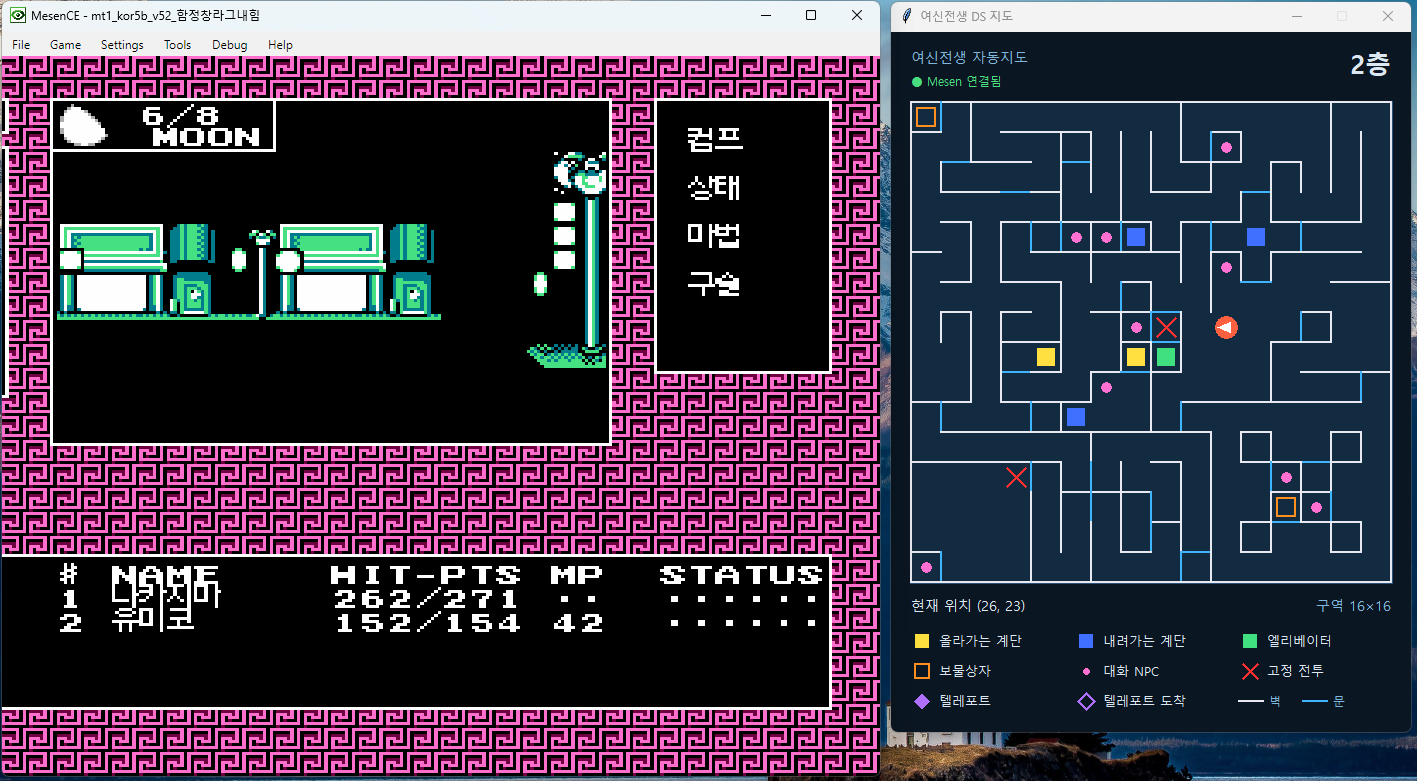
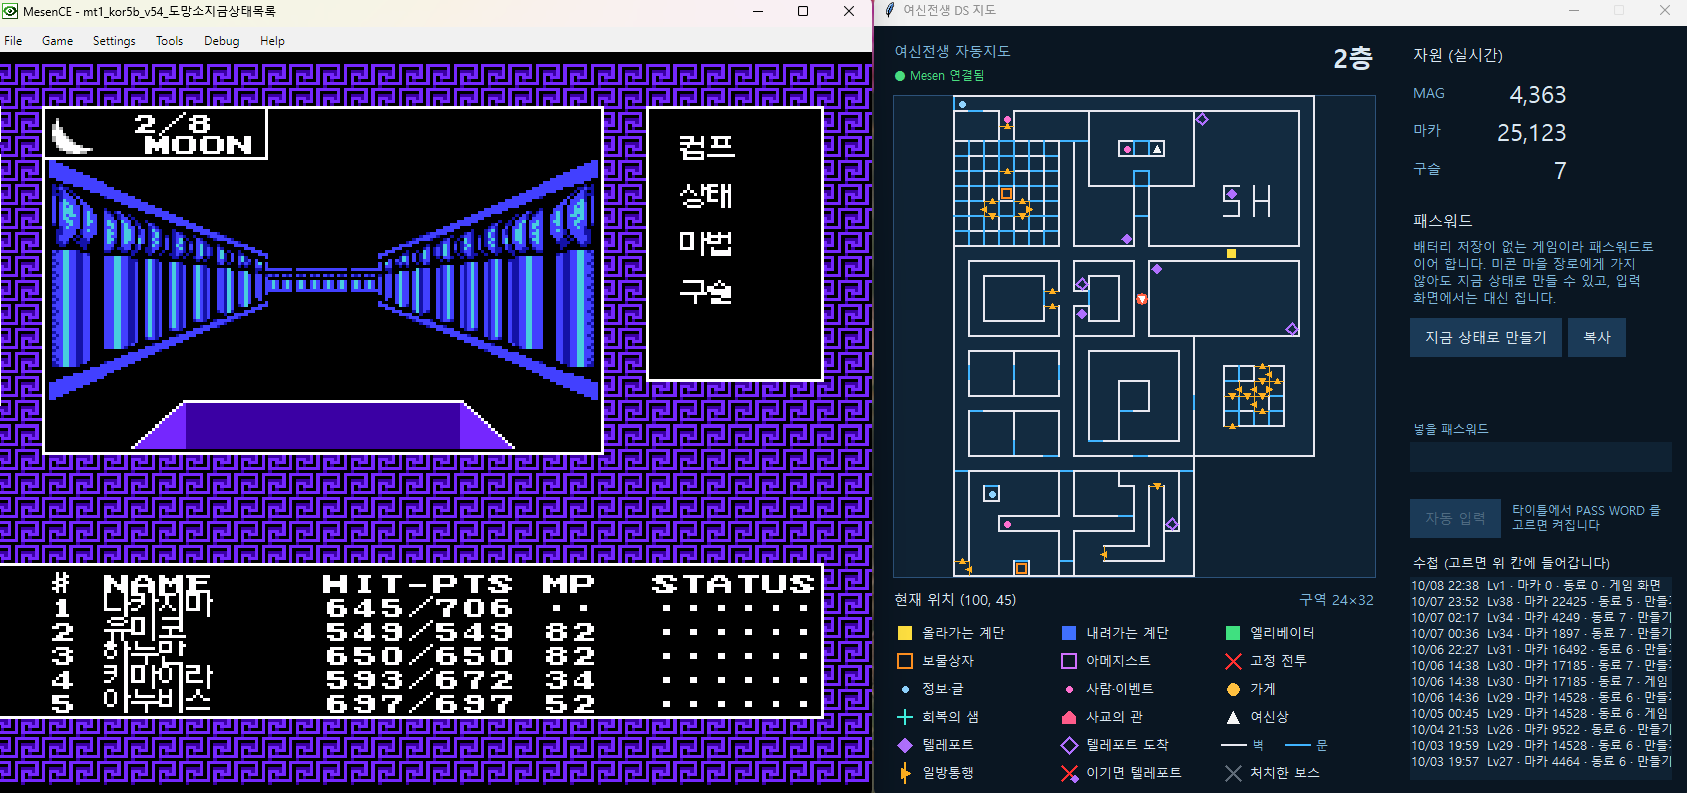
README 자동지도 스크린샷을 v54 DS 창(일방통행·자원·패스워드 패널)으로 교체

diff --git a/README.md b/README.md
@@ -52,7 +52,7 @@
 2. `python mt1_ds_window.py <롬 파일>` — Python 3 기본 포함 tkinter 로 뜹니다
 
 <p align="center">
-  <img src="docs/images/ds_window.png" alt="ds_bridge.lua - 게임 화면 옆 별도 창에 층·좌표·한글 범례와 함께 지도가 크게 그려진다" width="860">
+  <img src="docs/images/ds_window.png" alt="ds_bridge.lua - 게임 화면 옆 별도 창에 층 지도(일방통행 화살표 포함)·한글 범례·MAG·마카·패스워드 패널이 함께 나온다" width="900">
 </p>
 
 표식: 올라가는/내려가는 계단 · 엘리베이터 · 보물상자 · 아메지스트 · 정보 · 사람 · 가게 · 회복의 샘 · 여신상 · 사교의 관 · 고정 전투 · **텔레포트 칸과 도착 칸**
